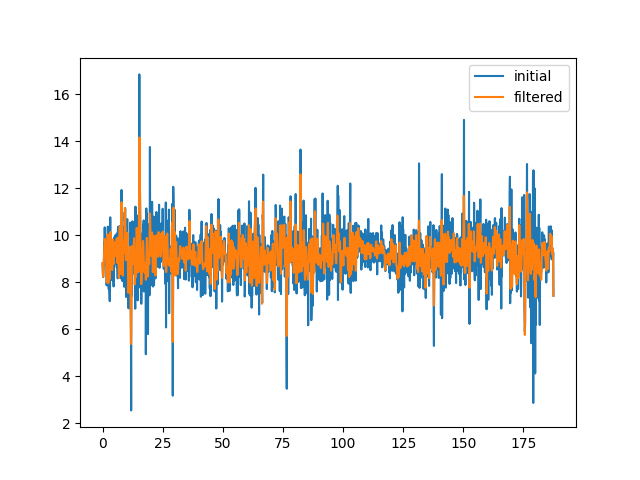
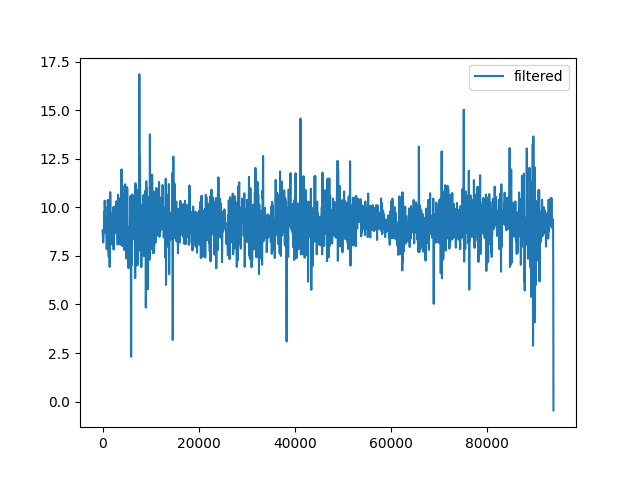
Model 85% accuracy with data augmentation

diff --git a/Pothole Detection/visualize.py b/Pothole Detection/visualize.py
@@ -5,23 +5,36 @@ import numpy as np
 import itertools
 from firebase_admin import credentials
 from firebase_admin import db
+from scipy import signal
+
+def filter(data, fs=10, fc=2, order=11):
+    # fc = frequency cutoff
+    w = fc / (fs / 2) # Normalize the frequency
+    b, a = signal.butter(order, w, 'lowpass', analog=False)
+    return signal.filtfilt(b, a, data)
 
 GOOGLE_APPLICATION_CREDENTIALS="raasta-c542d-firebase-adminsdk-5v3pa-94bf94e3fb.json"
 
 cred_obj = credentials.Certificate(GOOGLE_APPLICATION_CREDENTIALS)
 default_app = firebase_admin.initialize_app(cred_obj, {'databaseURL':"https://raasta-c542d-default-rtdb.asia-southeast1.firebasedatabase.app/"})
 
-ref = db.reference("/sensor-data/0f652a22-2694-41ff-98c4-d9eafaafda03/")
+ref = db.reference("/sensor-data/c47f30c3-d1b5-41b3-8786-beac109f9715/")
 session_data = ref.get()
 
 accelerometer_data = []
 gyroscope_data = []
+accelerometer_x = []
+accelerometer_y = []
+accelerometer_z = []
+gyroscope_x = []
+gyroscope_y = []
+gyroscope_z = []
 timestamps = []
 latitude = []
 longitude = []
 
 colors = []
-include = ['Pothole', 'Bad Road', 'Speedbreaker']
+include = ['Pothole', 'Bad Road', 'Speedbreaker', 'Sudden Change', 'Traffic']
 color_map = {0: 'darkslategray', 1: 'goldenrod'}
 
 for key in sorted(session_data):
@@ -38,15 +51,34 @@ for key in sorted(session_data):
             timestamps.append(0)
 
         try:
-            accelerometer_data.append((float(session_data[key]['accelerometer-x']), float(session_data[key]['accelerometer-y']), float(session_data[key]['accelerometer-z'])))
+            accelerometer_x.append(float(session_data[key]['accelerometer-x']))
         except KeyError:
-            print(float(session_data[key]['accelerometer-z']))
-            accelerometer_data.append((0,0,0))
+            accelerometer_x.append(0.0)
 
         try:
-            gyroscope_data.append((float(session_data[key]['gyroscope-x']), float(session_data[key]['gyroscope-y']), float(session_data[key]['gyroscope-z'])))
+            accelerometer_y.append(float(session_data[key]['accelerometer-y']))
         except KeyError:
-            gyroscope_data.append((0,0,0))
+            accelerometer_y.append(0.0)
+
+        try:
+            accelerometer_z.append(float(session_data[key]['accelerometer-z']))
+        except KeyError:
+            accelerometer_z.append(0.0)
+        
+        try:
+            gyroscope_x.append(float(session_data[key]['gyroscope-x']))
+        except KeyError:
+            gyroscope_x.append(0.0)
+
+        try:
+            gyroscope_y.append(float(session_data[key]['gyroscope-y']))
+        except KeyError:
+            gyroscope_y.append(0.0)
+
+        try:
+            gyroscope_z.append(float(session_data[key]['gyroscope-z']))
+        except KeyError:
+            gyroscope_z.append(0.0)
 
         try:
             latitude.append(float(session_data[key]['latitude']))
@@ -60,9 +92,25 @@ for key in sorted(session_data):
     except:
         pass
 
+# filt_acx = accelerometer_x
+# filt_acy = accelerometer_y
+# filt_acz = accelerometer_z
+# filt_gyx = gyroscope_x
+# filt_gyy = gyroscope_y
+# filt_gyz = gyroscope_z
 
-latitude = list(filter(lambda num: num != 0, latitude))
-longitude = list(filter(lambda num: num != 0, longitude))
+filt_acx = filter(accelerometer_x)
+filt_acy = filter(accelerometer_y)
+filt_acz = filter(accelerometer_z)
+filt_gyx = filter(gyroscope_x)
+filt_gyy = filter(gyroscope_y)
+filt_gyz = filter(gyroscope_z)
+
+accelerometer_data = [(i,j,k) for i,j,k in zip(filt_acx, filt_acy, filt_acz)]
+gyroscope_data = [(i,j,k) for i,j,k in zip(filt_gyx, filt_gyy, filt_gyz)]
+
+# latitude = list(filter(lambda num: num != 0, latitude))
+# longitude = list(filter(lambda num: num != 0, longitude))
 
 c = np.arange(len(latitude))
 
@@ -111,5 +159,5 @@ ax07.set_title("Accelerometer-Z")
 ax07.plot(range(len(accelerometer_data)), [i[2] for i in accelerometer_data], color='darkslateblue')
 
 plt.tight_layout()
-plt.savefig('test_1')
+plt.savefig('test_2_filter')
 plt.show()

diff --git a/Pothole Detection/cluster.py b/Pothole Detection/cluster.py
@@ -5,26 +5,28 @@ from firebase_admin import credentials
 from firebase_admin import db
 import matplotlib.pyplot as plt
 
+
 def get_data():
 
-   GOOGLE_APPLICATION_CREDENTIALS="raasta-c542d-firebase-adminsdk-5v3pa-94bf94e3fb.json"
+    GOOGLE_APPLICATION_CREDENTIALS = "raasta-c542d-firebase-adminsdk-5v3pa-94bf94e3fb.json"
 
-   cred_obj = credentials.Certificate(GOOGLE_APPLICATION_CREDENTIALS)
-   default_app = firebase_admin.initialize_app(cred_obj, {'databaseURL':"https://raasta-c542d-default-rtdb.asia-southeast1.firebasedatabase.app/"})
+    cred_obj = credentials.Certificate(GOOGLE_APPLICATION_CREDENTIALS)
+    default_app = firebase_admin.initialize_app(cred_obj, {
+                                                'databaseURL': "https://raasta-c542d-default-rtdb.asia-southeast1.firebasedatabase.app/"})
 
-   ref = db.reference("/pothole-locations/")
-   session_data = list(ref.get().values())
+    ref = db.reference("/pothole-locations/")
+    session_data = list(ref.get().values())
 
-   potholes = []
+    potholes = []
 
-   for session in session_data:
+    for session in session_data:
 
-      try:
+        try:
             potholes.append([session['latitude'], session['longitude']])
-      except:
+        except:
             pass
-   
-   return potholes
+
+    return potholes
 
 
 def is_near(points):
@@ -32,7 +34,7 @@ def is_near(points):
     EPSILON = 0.00001
     unique1 = []
     unique2 = []
-    
+
     sorted(points, key=lambda x: (x[0]))
 
     def is_nearr(point0, point1):
@@ -59,11 +61,11 @@ def is_near(points):
 
     arr_result = set(tuple(x) for x in unique1)
     arr_result.intersection_update(tuple(x) for x in unique2)
-    print(arr_result)  
+    print(arr_result)
     return arr_result
 
 
-potholes = [(24.9335757, 67.0857762), (24.9306664, 67.0865452), (24.9257537, 67.0906878)]
+potholes = [(24.9470422, 67.0510583), (24.9662395, 67.0671247), (24.9090505, 67.1310046), (24.9398181, 67.0851039), (24.9080753, 67.1333495), (24.9248974, 67.0913802), (24.964248, 67.0666175), (24.9214628, 67.0943681), (24.9440493, 67.0485271), (24.9625, 67.0651394), (24.9573949, 67.0607066), (24.9665487, 67.0670863), (24.9430129, 67.0476841), (24.9224749, 67.0934111), (24.9490369, 67.0528453), (24.9586418, 67.0617771), (24.9481641, 67.0520773), (24.9076795, 67.1342859), (24.9239133, 67.0908941), (24.9467674, 67.0508005), (24.9240448, 67.0914798), (24.9431175, 67.0477476), (24.9112233, 67.1263972), (24.927454, 67.0892003), (24.9564969, 67.0599185), (24.9089971, 67.1311479), (24.9335757, 67.0857762), (24.9104432, 67.1278408), (24.9060668, 67.1180962), (24.9449058, 67.0841016), (24.9252767, 67.0910719), (24.9669287, 67.0670425), (24.9479031, 67.0518421), (24.9188945, 67.0981754), (24.9659395, 67.0671186), (24.9427906, 67.0475197), (24.9232886, 67.0901115), (24.9566436, 67.0600537), (24.9495687, 67.0528328), (24.9279426, 67.0886956), (24.9638791, 67.0662975), (24.936129, 67.0855204), (24.9392003, 67.085161), (24.9187861, 67.0980181), (24.9473235, 67.0513078), (24.9495784, 67.0528141), (24.9582439, 67.0614484), (24.9312925, 67.0862912), (24.9106468, 67.1275456), (24.9495756, 67.0528198), (24.9081331, 67.1332074), (24.9433386, 67.0479153), (24.956077, 67.0595912), (24.9253569, 67.0910132), (24.9463463, 67.0504562), (24.9673593, 67.0669953), (24.9306664, 67.0865452), (24.9567141, 67.0601132), (24.9110373, 67.1267198), (24.9494477, 67.0529676), (24.9110373, 67.1267198), (24.9494477, 67.0529676), (24.9208409, 67.0948792), (24.9484694, 67.05236), (24.962992, 67.0655549), (24.9563385, 67.0598084), (24.9227564, 67.0894128), (24.9434962, 67.0845573), (24.9219758, 67.0938948), (24.9254189, 67.0909648), (24.9239741, 67.0909891), (24.9261102, 67.0904127), (24.9461361, 67.0834863), (24.9104191, 67.1278453)]
 result = is_near(potholes)
 
 print("There are {} potholes too near each other".format(len(result)))

diff --git a/Pothole Detection/model_cnn.py b/Pothole Detection/model_cnn.py
@@ -24,9 +24,18 @@ from keras.layers import Dropout
 from keras.layers.convolutional import Conv1D
 from keras.layers.convolutional import MaxPooling1D
 from keras.utils import to_categorical
+from scipy import signal
+from scipy.interpolate import splev, splrep
+import random
 import os
 os.environ["CUDA_VISIBLE_DEVICES"] = "-1"
 include = ['Pothole', 'Bad Road', 'Speedbreaker',]
+
+def resample(data, old_fs, new_fs=2):
+    t = np.arange(len(data)) / old_fs
+    spl = splrep(t, data)
+    t1 = np.arange((len(data))*new_fs) / (old_fs*new_fs)
+    return splev(t1, spl)
 
 def train_test_split(data, longitude, latitude):
 
@@ -45,6 +54,32 @@ def train_test_split(data, longitude, latitude):
         else:
             window.append([without_labels, 'Not Pothole'])
         window_loc.append([latitude[i], longitude[i]])
+
+    def augment(window):
+        pothole_count = 0
+        normal_count = 0
+        for i in window:
+            if i[1] == "Pothole":
+                pothole_count+=1
+            else:
+                normal_count+=1
+
+        for i in range(normal_count-pothole_count):
+            index = int(np.random.random()*pothole_count)
+            temp = window[index][0]
+            new = []
+            new_fs = int(np.random.uniform(10, 20))
+            for j in range(6):
+                _ = resample(temp[j], 10, new_fs)
+                new.append(resample(_, new_fs, 10/new_fs))
+
+            new = [[new[0][k],new[1][k],new[2][k],new[3][k],new[4][k],new[5][k]] for k in range(len(new[0]))]
+            window.append([new, 'Pothole'])
+
+        return window
+
+    window = augment(window)
+    random.shuffle(window)
 
     data = np.array(window, dtype=object)
 
@@ -89,18 +124,18 @@ X_test = np.array(testing_sequences)
 Y_train = np.array(training_labels).reshape(-1, 1)
 Y_test = np.array(testing_labels).reshape(-1, 1)
 
-print(X_train.shape[1], X_train.shape[2], Y_train.shape[1])
+# print(X_train.shape[1], X_train.shape[2], Y_train.shape[1])
 n_timesteps, n_features, n_outputs = X_train.shape[1], X_train.shape[2], Y_train.shape[1]
 
 
 # fit and evaluate a model
 def evaluate_model(X_train, Y_train, X_test, Y_test):
-    verbose, epochs, batch_size = 0, 100, 16
+    verbose, epochs, batch_size = 0, 10, 8
     n_timesteps, n_features, n_outputs = X_train.shape[1], X_train.shape[2], Y_train.shape[1]
     model = Sequential()
     model.add(Conv1D(filters=128, kernel_size=3, activation='relu', input_shape=(n_timesteps,n_features)))
     model.add(Conv1D(filters=64, kernel_size=5, activation='relu'))
-    model.add(Conv1D(filters=32, kernel_size=1, activation='relu'))
+    model.add(Conv1D(filters=32, kernel_size=3, activation='relu'))
     model.add(MaxPooling1D(pool_size=2))
     model.add(Flatten())
     model.add(Dense(100, activation='relu'))
@@ -121,21 +156,21 @@ def evaluate_model(X_train, Y_train, X_test, Y_test):
     return accuracy
 
 # # # summarize scores
-# def summarize_results(scores):
-#     print(scores)
-#     m, s = np.mean(scores), np.std(scores)
-#     print('Accuracy: %.3f%% (+/-%.3f)' % (m, s))
+def summarize_results(scores):
+    print(scores)
+    m, s = np.mean(scores), np.std(scores)
+    print('Accuracy: %.3f%% (+/-%.3f)' % (m, s))
 
 
 # repeat experiment
 scores = list()
-# repeats = 3
-# for r in range(repeats):
-score = evaluate_model(X_train, Y_train, X_test, Y_test)
-score = score * 100.0
-print('>#%d: %.3f' % (1, score))
-    # scores.append(score)
-    # # summarize results
-    # summarize_results(scores)
+repeats = 5
+for r in range(repeats):
+    score = evaluate_model(X_train, Y_train, X_test, Y_test)
+    score = score * 100.0
+    print('>#%d: %.3f' % (1, score))
+    scores.append(score)
+    # summarize results
+    summarize_results(scores)
 
 

diff --git a/Pothole Detection/preprocess.py b/Pothole Detection/preprocess.py
@@ -78,17 +78,21 @@ def filter(data, fs=10, fc=2, order=11):
 def resample(data, old_fs, new_fs=2):
     t = np.arange(len(data)) / old_fs
     spl = splrep(t, data)
-    t1 = np.arange((len(data))*new_fs) / (fs*new_fs)
+    t1 = np.arange((len(data))*new_fs) / (old_fs*new_fs)
     return splev(t1, spl)
 
 
-fs = 10  # Sampling frequency
-new_accz = filter(accelerometer_z)
-t = np.arange(len(accelerometer_x)) / fs
+# fs = 10  # Sampling frequency
+# new_accz = filter(accelerometer_z)
+# t = np.arange(len(accelerometer_x)) / fs
+fs = 10
+new_fs = 50
+new_accz = resample(accelerometer_z, fs, new_fs)
+t1 = np.arange(len(accelerometer_x)*new_fs) 
 
-plt.plot(t, accelerometer_z, label="initial")
-plt.plot(t, new_accz, label='filtered')
-
+# plt.plot(t, accelerometer_z, label="initial")
+# plt.plot(t, new_accz, label='filtered')
+plt.plot(t1, new_accz, label='filtered')
 plt.legend()
 plt.savefig("Filtered")
 plt.show()
